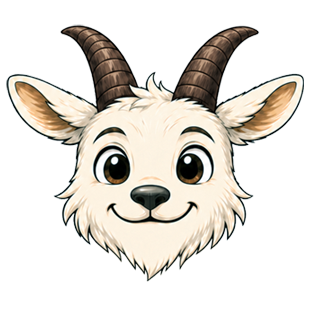
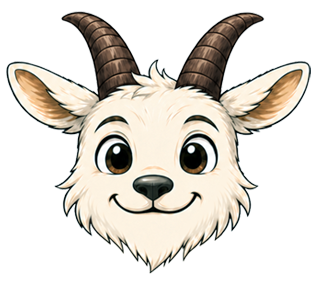
LOGOHEAD

Changed region(s): [[0.0, 0.028, 0.9871, 0.951], [0.5226, 0.3916, 0.5516, 0.4196], [0.3194, 0.3357, 0.3484, 0.3636]]

diff --git a/index.html b/index.html
@@ -107,8 +107,8 @@ body > nav{
 }
 
 .nav-logo-img{
-  width: 200px;
-  height:65px;
+  width: 60px;
+  height:54px;
   object-fit:contain;
   display:block;
 }
@@ -1329,10 +1329,14 @@ body.menu-open .mobile-menu {
 <nav class="site-nav">
   <a href="index.html" class="nav-logo">
     <img 
-      src="/images/EDGELOGO.png" 
+      src="/images/edge-head.png" 
       alt="SteadyEDGE logo"
       class="nav-logo-img"
     />
+    <div>
+      <div class="nav-logo-text">Steady<span>EDGE</span></div>
+      <div class="nav-logo-sub">When expressing yourself gets hard, get steady.</div>
+    </div>
   </a>
 
   <button